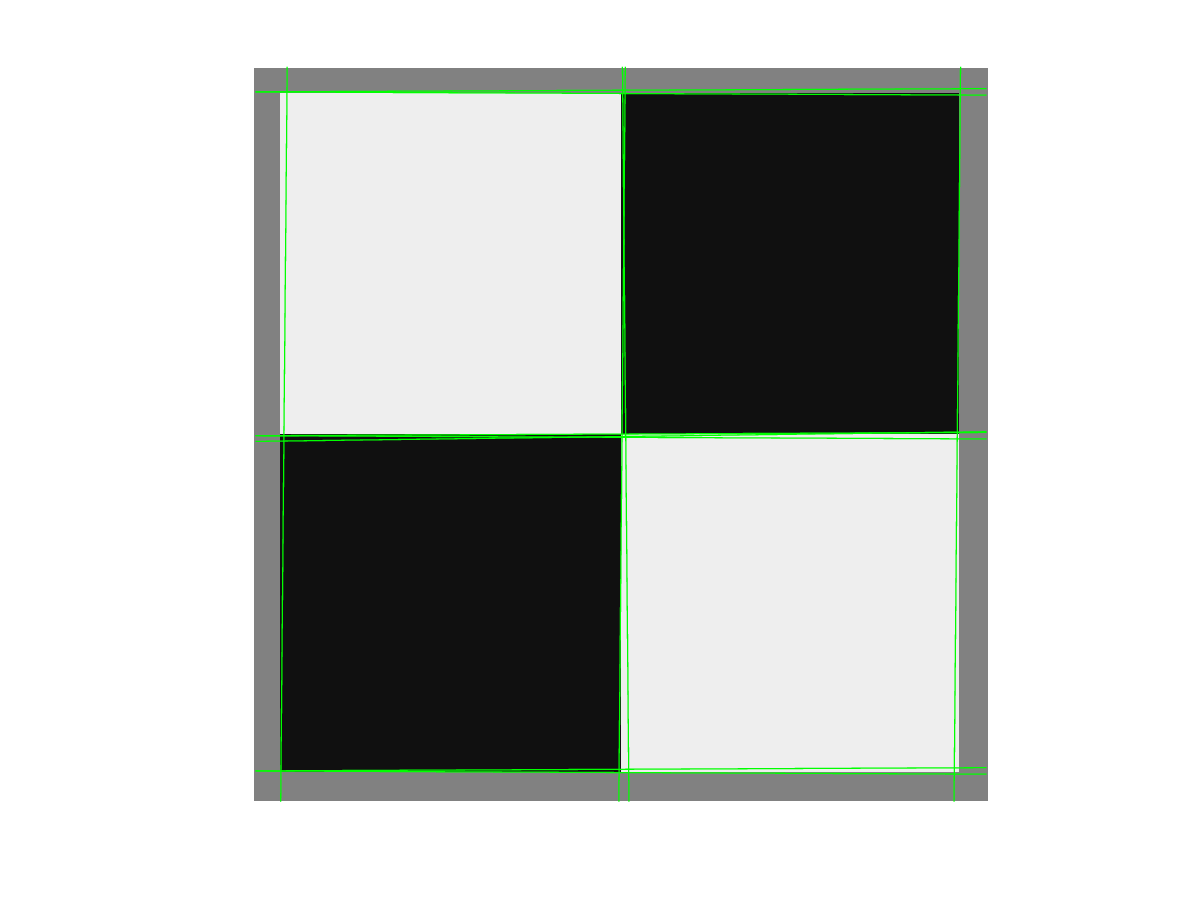
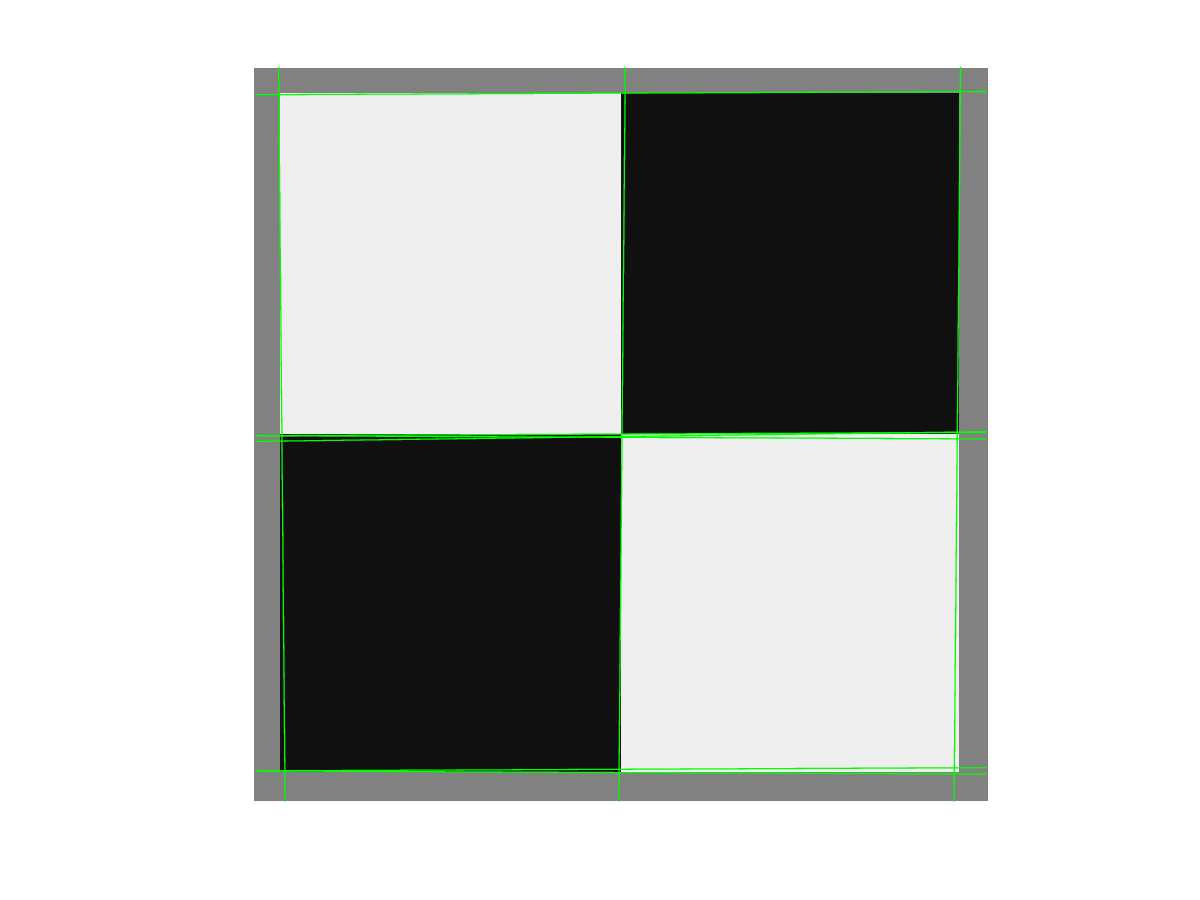
update hough transform lines

Changed region(s): [[0.2158, 0.0933, 0.8325, 0.5289], [0.2158, 0.6844, 0.2467, 0.8711]]

diff --git a/georgiatech_cs4495/ps1_octave/ps1.m b/georgiatech_cs4495/ps1_octave/ps1.m
@@ -5,7 +5,7 @@ clc;
 close all;
 clear all;
 
-%{
+
 %% 1-a
 img = imread(fullfile('input', 'ps1-input0.png'));  % already grayscale
 %% TODO: Compute edge image img_edges
@@ -48,15 +48,15 @@ img_noise = imread('input/ps1-input0-noise.png');
 % figure, imshow(img_noise);
 
 % smooth it
-gauss_f = fspecial('gaussian', 11, 5);
-img_smoothed = imfilter(img_noise, gauss_f);
+gauss_f = fspecial('gaussian', 9, 4);
+img_smoothed = imfilter(img_noise, gauss_f, 'symmetric');
 % figure, imshow(img_smoothed);
 
 % save the smoothed img to output/ps1-3-a-1.png
 imwrite(img_smoothed, 'output/ps1-3-a-1.png');
 
 % find the edge
-img_noise_edges = edge(img_noise, 'canny');
+img_noise_edges = edge(img_noise, 'canny', 6);
 img_smoothed_edges = edge(img_smoothed, 'sobel');
 %figure, imshow(img_noise_edges);
 figure, imshow(img_smoothed_edges);
@@ -75,7 +75,6 @@ plot(theta(peaks(:,2)), rho(peaks(:,1)),'s','color','white');
 print('output/ps1-3-c-1.png');
 
 hough_lines_draw(img_noise, 'output/ps1-3-c-2.png', peaks, rho, theta);
-%}
 
 
 img = imread('input/ps1-input1.png');
@@ -85,25 +84,25 @@ img_mono = rgb2gray(img);
 figure, imshow(img_mono);
 
 % smooth the image
-gauss_f = fspecial('gaussian', 15, 3);
-img_smoothed = imfilter(img_mono, gauss_f);
+gauss_f = fspecial('gaussian', 9, 4);
+img_smoothed = imfilter(img_mono, gauss_f, 'symmetric');
 figure, imshow(img_smoothed);
 imwrite(img_smoothed, 'output/ps1-4-a-1.png');
 
 % find the edge
-img_edges = edge(img_smoothed, 'canny');
+img_edges = edge(img_smoothed, 'canny', 6);
 figure, imshow(img_edges);
 imwrite(img_edges, 'output/ps1-4-b-1.png');
 
 
 % find the lines
 [H, theta, rho] = hough_lines_acc(img_edges);
-peaks = hough_peaks(H, 15, 'Threshold', 0.1 * max(H(:)));
+peaks = hough_peaks(H, 6, 'Threshold', 0.5 * max(H(:)));
 figure;
 imshow(H, [], 'XData', theta, 'YData', rho, 'InitialMagnification', 'fit');
 xlabel('\theta'), ylabel('\rho');
 axis on, axis normal, hold on;
-plot(theta(peaks(:, 2)), rho(peaks(:, 1)), 's', 'color', 'white');
+plot(theta(peaks(:, 2)), rho(peaks(:, 1)), 's', 'color', 'green');
 print('output/ps1-4-c-1.png');
 
 hough_lines_draw(img_mono, 'output/ps1-4-c-2.png', peaks, rho, theta);

diff --git a/georgiatech_cs4495/ps1_octave/hough_lines_acc.m b/georgiatech_cs4495/ps1_octave/hough_lines_acc.m
@@ -27,11 +27,11 @@ function [H, theta, rho] = hough_lines_acc(BW, varargin)
     [h, w] = size(BW); 
     
     D = sqrt((h - 1) ^ 2 + (w - 1) ^ 2);
-    nrho = 2 * (ceil(D / rhoStep));
+    % nrho = 2 * (ceil(D / rhoStep));
     diagonal = rhoStep * ceil(D / rhoStep);
     rho = -diagonal : rhoStep : diagonal;
-    ntheta = length(theta);
-    H = zeros(nrho, ntheta);
+    % ntheta = length(theta);
+    H = zeros(length(rho), length(theta));
     
     for i = 1 : h
         for j = 1 : w
@@ -40,7 +40,8 @@ function [H, theta, rho] = hough_lines_acc(BW, varargin)
                     cur_theta = theta(cur_theta_index);
                     cur_rho = j * cos(cur_theta) + i * sin(cur_theta);
                     cur_rho_index = find(abs(rho - cur_rho) < rhoStep)(1);
-                    H(cur_rho_index, cur_theta_index) = H(cur_rho_index, cur_theta_index) + 1;
+                    H(cur_rho_index, cur_theta_index) = H(cur_rho_index, ...
+                        cur_theta_index) + 1;
                 end
             end
             

diff --git a/georgiatech_cs4495/ps1_octave/hough_peaks.m b/georgiatech_cs4495/ps1_octave/hough_peaks.m
@@ -30,9 +30,9 @@ function peaks = hough_peaks(H, varargin)
     for i = 1 : numpeaks
         [r, c] = find(thresed_h == max(thresed_h(:)));
         r = r(1); c = c(1);
-        window_r = max([r - floor(nHoodSize(1) / 2), 1]) : 1 : \ 
+        window_r = max([r - floor(nHoodSize(1) / 2), 1]) : 1 : ...
                    min([r + floor(nHoodSize(1) / 2), h]);
-        window_c = max([c - floor(nHoodSize(2) / 2), 1]) : 1 : \
+        window_c = max([c - floor(nHoodSize(2) / 2), 1]) : 1 : ...
                    min([c + floor(nHoodSize(2) / 2), w]);
         
         thresed_h(window_r, window_c) = 0;

diff --git a/georgiatech_cs4495/ps1_octave/hough_lines_draw.m b/georgiatech_cs4495/ps1_octave/hough_lines_draw.m
@@ -18,7 +18,7 @@ function hough_lines_draw(img, outfile, peaks, rho, theta)
         cur_rho = rho(peak(1));
         cur_theta = theta(peak(2));
        
-        y = (cur_rho - (x  - 1) * cos(cur_theta)) / sin(cur_theta) + 1;
+        y = (cur_rho - x * cos(cur_theta)) / sin(cur_theta);
        
         hold on; plot(x, y, 'color', 'green'); 
     end
